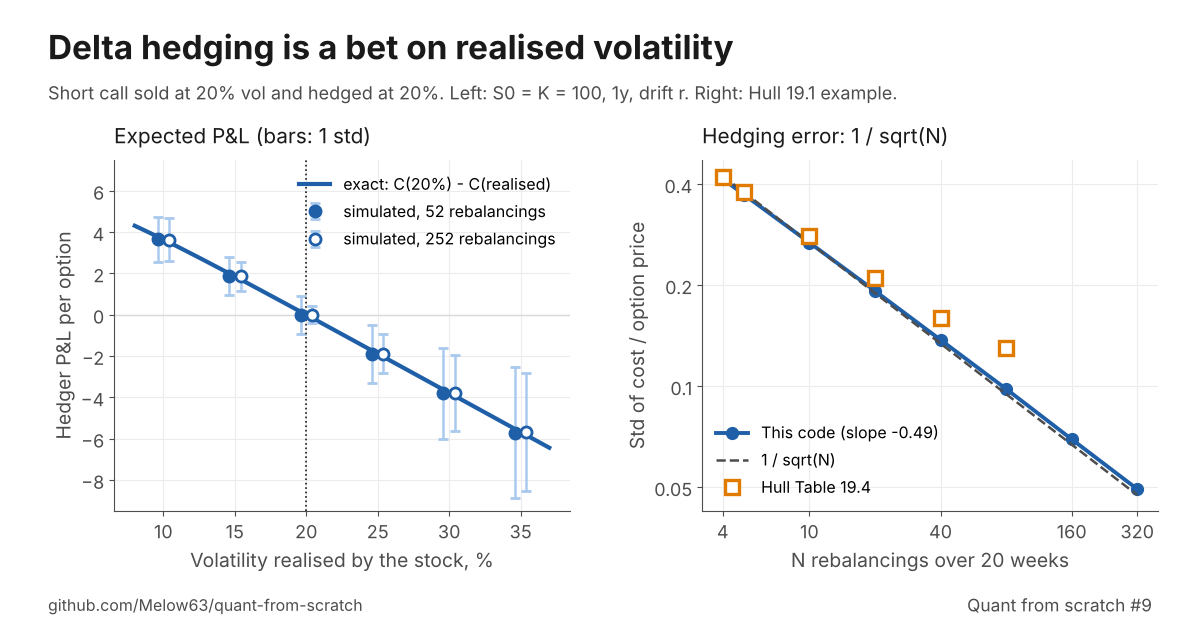
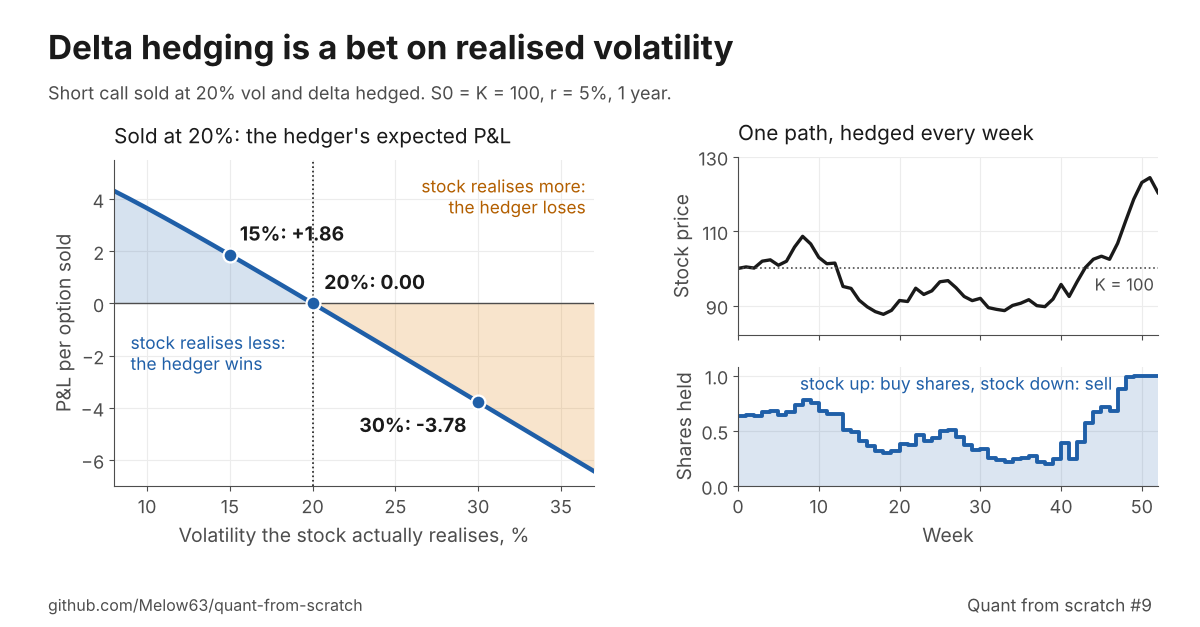
Day 9 charts: one hedged path and a simpler P&L panel; no book names in chart titles

diff --git a/plots_week2.py b/plots_week2.py
@@ -12,7 +12,7 @@ from bs_reference import bs_price
 from bsm import bsm_price, d1_d2, norm_cdf
 from bsm_equation import hedged_change, one_step_moves, portfolio_value
 from greeks import all_greeks, delta, gamma, theta, vega
-from hedging import gbm_paths, hedge_cost, hedging_pnl
+from hedging import gbm_paths, hedge_cost, hedge_deltas, hedging_pnl
 from impliedvol import implied_vol, implied_vols
 from pde import pde_gamma, pde_grid_solution, pde_price
 from riskneutral import call_price_control_variate, mean_and_se, terminal_prices
@@ -112,7 +112,7 @@ def day6_map():
             ax.annotate("", xy=(0.05, y0 - gap + 0.003), xytext=(0.05, y0 - 0.003),
                         arrowprops=dict(arrowstyle="-|>", color=BLUE, lw=2.2, mutation_scale=16))
 
-    # right: Hull figure 15.2, the call price against the stock price and its slope
+    # right: the call price against the stock price and its slope
     fx = fig.add_axes([0.725, 0.17, 0.245, 0.53])
     spots = np.linspace(60, 140, 161)
     price = bsm_price(spots, K, R, SIG, T)
@@ -138,7 +138,7 @@ def day6_map():
 def day6b_pde_numerics():
     fig = landscape(
         6,
-        "Solving the equation on a grid (Hull 21.8)",
+        "Solving the equation on a grid",
         "Call, S0 = K = 100, r = 5%, vol = 20%, T = 1y. Finite differences, grid denser near the strike.",
     )
     exact = bs_price(S0, K, R, SIG, T, "call")
@@ -434,14 +434,17 @@ def _chunked(fn, n_paths, chunk=25_000):
     return np.concatenate(out)
 
 
-def day9_delta_hedging():
+day9_numbers = {}
+
+
+def day9b_hedging_detail():
     fig = landscape(
         9,
         "Delta hedging is a bet on realised volatility",
-        "Short call sold at 20% vol and hedged at 20%. Left: S0 = K = 100, 1y, drift r. Right: Hull 19.1 example.",
+        "Short call sold at 20% vol and delta hedged at 20%. S0 = K = 100, r = 5%, 1 year, drift r.",
     )
 
-    ax = panel(fig, 0.095, 0.38)
+    ax = panel(fig, 0.095, 0.38, bottom=0.225, height=0.52)
     vols = np.array([0.10, 0.15, 0.20, 0.25, 0.30, 0.35])
     grid = np.linspace(0.08, 0.37, 120)
     c_imp = float(bsm_price(S0, K, R, SIG, T))
@@ -462,31 +465,85 @@ def day9_delta_hedging():
     ax.set_ylabel("Hedger P&L per option")
     ax.legend(frameon=False, loc="upper right", fontsize=11.5)
     ax.set_ylim(-9.5, 7.5)
-    title(ax, "Expected P&L (bars: 1 std)")
+    title(ax, "Hedger P&L by realised volatility (bars: 1 std)")
 
-    s0, k, r, sig, t, mu = 49.0, 50.0, 0.05, 0.20, 20 / 52, 0.13
-    price = float(bsm_price(s0, k, r, sig, t, "call"))
-    ax2 = panel(fig, 0.585, 0.38)
-    sizes = np.array([4, 5, 10, 20, 40, 80, 160, 320])
+    price = float(bsm_price(S0, K, R, SIG, T, "call"))
+    ax2 = panel(fig, 0.585, 0.38, bottom=0.225, height=0.52)
+    sizes = np.array([4, 8, 12, 26, 52, 104, 252])
     ours = []
     for n in sizes:
-        cost = _chunked(lambda m, i: np.exp(-r * t) * hedge_cost(gbm_paths(s0, mu, sig, t, int(n), m, seed=7000 + i), k, r, sig, t),
+        cost = _chunked(lambda m, i: np.exp(-R * T) * hedge_cost(gbm_paths(S0, R, SIG, T, int(n), m, seed=7000 + i), K, R, SIG, T),
                         200_000)
         ours.append(cost.std(ddof=1) / price)
     ours = np.array(ours)
-    ax2.loglog(sizes, ours, "o-", color=BLUE, lw=2.8, ms=8.5, label=f"This code (slope {_slope(sizes[3:], ours[3:]):.2f})")
+    day9_numbers.update({int(n): float(v) for n, v in zip(sizes, ours)})
+    ax2.loglog(sizes, ours, "o-", color=BLUE, lw=2.8, ms=8.5, label=f"simulated (slope {_slope(sizes[2:], ours[2:]):.2f})")
     ax2.loglog(sizes, ours[2] * np.sqrt(sizes[2] / sizes), "--", color=GRAY, lw=1.8, label="1 / sqrt(N)")
-    ax2.loglog([4, 5, 10, 20, 40, 80], [0.42, 0.38, 0.28, 0.21, 0.16, 0.13], "s", color=ORANGE, ms=9.5, mfc="white",
-               mew=2.4, ls="none", label="Hull Table 19.4")
-    ax2.set_xticks([4, 10, 40, 160, 320])
-    ax2.set_xticklabels(["4", "10", "40", "160", "320"])
+    ax2.set_xticks([4, 12, 52, 252])
+    ax2.set_xticklabels(["4", "12\nmonthly", "52\nweekly", "252\ndaily"])
     ax2.minorticks_off()
     ax2.set_yticks([0.05, 0.1, 0.2, 0.4])
     ax2.set_yticklabels(["0.05", "0.1", "0.2", "0.4"])
-    ax2.set_xlabel("N rebalancings over 20 weeks")
-    ax2.set_ylabel("Std of cost / option price")
+    ax2.set_xlabel("N rebalancings over 1 year")
+    ax2.set_ylabel("Std of hedging cost / premium")
     ax2.legend(frameon=False, loc="lower left", fontsize=11.5)
-    title(ax2, "Hedging error: 1 / sqrt(N)")
+    title(ax2, "Hedging error shrinks like 1 / sqrt(N)")
+    return save_portrait(fig, "day9b_hedging_detail.png")
+
+
+def day9_delta_hedging():
+    fig = landscape(
+        9,
+        "Delta hedging is a bet on realised volatility",
+        "Short call sold at 20% vol and delta hedged. S0 = K = 100, r = 5%, 1 year.",
+    )
+    c_imp = float(bsm_price(S0, K, R, SIG, T))
+
+    ax = panel(fig, 0.095, 0.40, bottom=0.225, height=0.52)
+    grid = np.linspace(0.08, 0.37, 200)
+    pnl = np.array([c_imp - float(bsm_price(S0, K, R, v, T)) for v in grid])
+    ax.fill_between(grid * 100, pnl, 0, where=pnl >= 0, color=BLUE, alpha=0.18, lw=0)
+    ax.fill_between(grid * 100, pnl, 0, where=pnl <= 0, color=ORANGE, alpha=0.20, lw=0)
+    ax.plot(grid * 100, pnl, color=BLUE, lw=3.2)
+    ax.axhline(0, color=GRAY, lw=1.0)
+    ax.axvline(SIG * 100, color=INK, lw=1.2, ls=":")
+    for v, dx, dy, ha in ((0.15, 0.6, 0.55, "left"), (0.20, 0.7, 0.55, "left"), (0.30, -0.7, -1.15, "right")):
+        val = c_imp - float(bsm_price(S0, K, R, v, T))
+        ax.plot([v * 100], [val], "o", color=BLUE, ms=10, mec="white", mew=1.6, zorder=5)
+        txt = "0.00" if abs(val) < 1e-9 else f"{val:+.2f}"
+        ax.text(v * 100 + dx, val + dy, f"{int(round(v * 100))}%: {txt}", fontsize=14, fontweight="bold", color=INK, ha=ha)
+    ax.text(9, -1.1, "stock realises less:\nthe hedger wins", fontsize=12.5, color=BLUE, va="top")
+    ax.text(36.5, 4.9, "stock realises more:\nthe hedger loses", fontsize=12.5, color="#b35f00", va="top", ha="right")
+    ax.set_xlim(8, 37)
+    ax.set_ylim(-7, 5.5)
+    ax.set_xlabel("Volatility the stock actually realises, %")
+    ax.set_ylabel("P&L per option sold")
+    title(ax, "Sold at 20%: the hedger's expected P&L")
+
+    # right: one path, hedged every week. The hedge is the number of shares held against the call sold.
+    n = 52
+    path = gbm_paths(S0, R, SIG, T, n, 1, seed=0)
+    wk = np.arange(n + 1)
+    delta_hold = hedge_deltas(path, K, R, SIG, T)[0]
+    ax2 = panel(fig, 0.615, 0.35, bottom=0.465, height=0.285)
+    ax2.plot(wk, path[0], color=INK, lw=2.4)
+    ax2.axhline(K, color=GRAY, lw=1.2, ls=":")
+    ax2.text(51.5, K - 1.6, "K = 100", fontsize=12, color=GRAY, ha="right", va="top")
+    ax2.set_xlim(0, n)
+    ax2.set_ylim(82, 130)
+    ax2.set_yticks([90, 110, 130])
+    ax2.set_xticklabels([])
+    ax2.set_ylabel("Stock price")
+    title(ax2, "One path, hedged every week")
+    ax3 = panel(fig, 0.615, 0.35, bottom=0.225, height=0.19)
+    ax3.step(wk, delta_hold, where="post", color=BLUE, lw=2.8)
+    ax3.fill_between(wk, delta_hold, step="post", color=BLUE, alpha=0.16, lw=0)
+    ax3.set_xlim(0, n)
+    ax3.set_ylim(0, 1.08)
+    ax3.set_yticks([0, 0.5, 1])
+    ax3.set_xlabel("Week")
+    ax3.set_ylabel("Shares held")
+    ax3.text(27, 0.93, "stock up: buy shares, stock down: sell", fontsize=12.5, color=BLUE, ha="center", va="center")
     return save_portrait(fig, "day9_delta_hedging.png")
 
 
@@ -536,5 +593,5 @@ def day10_smile():
 
 
 if __name__ == "__main__":
-    for make in (day6_map, day6b_pde_numerics, day7_n_d1_d2, day8_greeks, day8_carousel, day9_delta_hedging, day10_smile):
+    for make in (day6_map, day6b_pde_numerics, day7_n_d1_d2, day8_greeks, day8_carousel, day9_delta_hedging, day9b_hedging_detail, day10_smile):
         print(make())

diff --git a/README.md b/README.md
@@ -28,7 +28,7 @@ checked against, Shreve the reason it works.
 | Black-Scholes-Merton model: hedge, equation, risk-neutral valuation, formula, four routes to one price | `bsm_equation.py`, `pde.py`, `riskneutral.py` | `charts/day6_black_scholes_pde.png`, `charts/day6b_pde_numerics.png` | 15.6, 15.7, 15.8, 21.8 |
 | N(d1) and N(d2) | `bsm.py`, `riskneutral.py` | `charts/day7_n_d1_n_d2.png` | 15.8, 19.4, ch. 28 |
 | The Greek letters | `greeks.py` | `charts/day8_greeks_1.png` to `_3.png` (three slides, also `charts/day8_greeks_carousel.pdf`), `charts/day8_greeks.png` | 19.4 to 19.9, Table 19.6 |
-| Delta hedging | `hedging.py` | `charts/day9_delta_hedging.png` | 19.4, Tables 19.2 to 19.4 |
+| Delta hedging | `hedging.py` | `charts/day9_delta_hedging.png`, `charts/day9b_hedging_detail.png` | 19.4, Tables 19.2 to 19.4 |
 | Volatility smiles | `impliedvol.py`, `smile.py` | `charts/day10_volatility_smile.png` | ch. 20 and appendix |
 
 ### What each module does, how it is checked, where it stops
